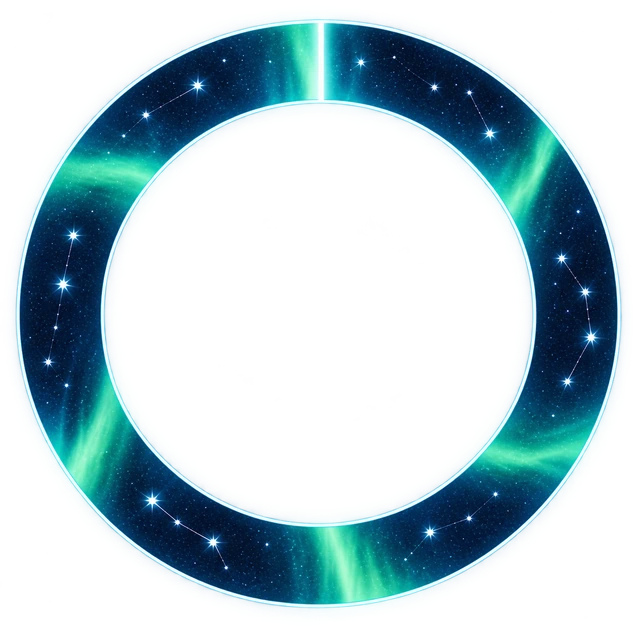
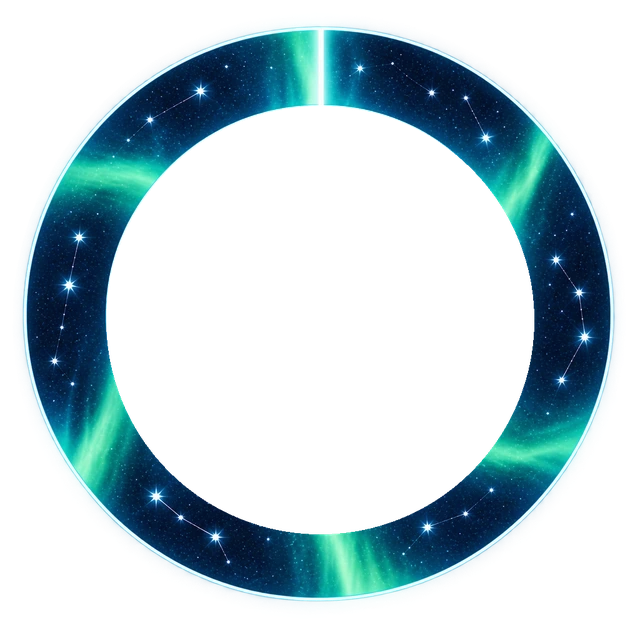
Add files via upload

Changed region(s): [[0.0, 0.0312, 0.9688, 0.9688], [0.7188, 0.7812, 0.75, 0.8125], [0.6562, 0.125, 0.6875, 0.1562]]

diff --git a/src/styles.css b/src/styles.css
@@ -5852,3 +5852,21 @@ body.admin-page,.admin-page .app-shell{height:auto;min-height:100%;overflow:visi
 .aurora-ring.active img{filter:saturate(1.02) contrast(1.05) brightness(1.00);}
 .aurora-ring.locked{opacity:.96;}
 .aurora-ring.locked img{filter:saturate(1.00) contrast(1.04) brightness(.97) hue-rotate(1deg);}
+
+/* Pass 7.28.0 — Aurora Apex concentric ring geometry correction */
+.aurora-ring{
+  opacity:.78;
+  filter:drop-shadow(0 7px 9px rgba(0,2,8,.48));
+}
+.aurora-ring img{
+  opacity:.97;
+  filter:saturate(.86) contrast(1.08) brightness(.92);
+}
+.aurora-ring::before{display:none;}
+.aurora-ring-outer{width:96%;height:96%;}
+.aurora-ring-middle{width:59%;height:59%;}
+.aurora-ring-inner{width:35%;height:35%;}
+.aurora-ring.tracking{opacity:.62;filter:drop-shadow(0 6px 8px rgba(0,2,8,.44));}
+.aurora-ring.tracking img{filter:saturate(.72) contrast(1.08) brightness(.82);}
+.aurora-ring.active{opacity:1;filter:drop-shadow(0 8px 10px rgba(0,2,8,.52)) drop-shadow(0 0 6px rgba(104,227,233,.14));}
+.aurora-ring.active img{opacity:1;filter:saturate(.96) contrast(1.10) brightness(1.0);}

diff --git a/index.html b/index.html
@@ -7,7 +7,7 @@
   <meta name="apple-mobile-web-app-capable" content="yes" />
   <meta name="apple-mobile-web-app-status-bar-style" content="black-translucent" />
   <link rel="manifest" href="./manifest.webmanifest" />
-  <link rel="stylesheet" href="./src/styles.css?v=7.27.0" />
+  <link rel="stylesheet" href="./src/styles.css?v=7.28.0" />
   <title>Silverstone Mission Control</title>
 </head>
 <body>
@@ -40,6 +40,6 @@
       }
     })();
   </script>
-  <script src="./src/main.js?v=7.27.0" defer></script>
+  <script src="./src/main.js?v=7.28.0" defer></script>
 </body>
 </html>

diff --git a/PRODUCTION-AUDIT.md b/PRODUCTION-AUDIT.md
@@ -1,4 +1,4 @@
-# Pass 7.27.0 — Production Audit
+# Pass 7.28.0 — Production Audit
 
 ## Result
 
@@ -6,21 +6,21 @@
 
 ## Production footprint
 
-- `dist/`: **8.195 MiB**
+- `dist/`: **8.149 MiB**
 - Production files: **50**
-- Versus Pass 7.26.0: **+137,160 bytes** (**+133.9 KiB**) with **no file-count change**.
-- The footprint increase comes from the three replacement Aurora ring WebPs; no duplicate assets were added.
+- Versus Pass 7.27.0: **-47,840 bytes** (**-46.7 KiB**) with **no file-count change**.
+- The footprint reduction comes from the corrected Aurora ring WebPs replacing the previous larger set; no duplicate assets were added.
 - No WAV/source-master audio is deployed.
 - No test/temp files are deployed.
 - Runtime images remain WebP/SVG and fonts remain WOFF2.
 
 ## Aurora Apex verified
 
-- Replaced `aurora-ring-outer.webp`, `aurora-ring-middle.webp` and `aurora-ring-inner.webp` with the newly rebuilt concentric transparent ring artworks.
-- The calmer deep-blue / light-green aurora direction is preserved while removing the visibly misaligned earlier artwork used in the previous pass.
-- Aurora Apex ring stack geometry, spacing, scaling, active-state emphasis, gameplay timings, background behaviour and mistimed desync feedback remain unchanged.
-- No mission copy, HUD structure, audio, routing or interaction logic was changed.
-- `src/main.js` was regenerated via `node bundle-js.cjs` and remained functionally unchanged.
+- Rebuilt `aurora-ring-outer.webp`, `aurora-ring-middle.webp` and `aurora-ring-inner.webp` from the approved calm Aurora artwork using clean centred annular masks with transparent inner/outer areas.
+- Corrected the Aurora ring stack so the Outer ring fills the full circular field while preserving clear dark gaps between Outer/Middle and Middle/Inner.
+- Removed the residual procedural ring overlay and eased tracking suppression so all three rings remain legible from the opening frame.
+- Aurora Apex gameplay, timing, copy, HUD structure, audio, routing and mistimed desync behaviour remain unchanged.
+- `src/main.js` was regenerated via `node bundle-js.cjs` and remained byte-identical in output behaviour, so it is not included in the updated-files ZIP.
 
 ## Automated checks passed
 
@@ -41,7 +41,7 @@
 
 ## Non-blocking warnings
 
-1. **Deployment footprint:** 8.19 MB exceeds the 7 MB audit target, primarily because the full Lapland Launch music track remains intentionally retained.
+1. **Deployment footprint:** 8.15 MB exceeds the 7 MB audit target, primarily because the full Lapland Launch music track remains intentionally retained.
 2. **ELF FM stream:** current Radio Mast URL is still identified as a test stream and should be replaced when the production stream is supplied.
 3. **Web app manifest:** no install icon is defined; normal browser/QR use is unaffected.
 

diff --git a/CHANGELOG.md b/CHANGELOG.md
@@ -711,3 +711,11 @@ This pass adds a self-contained static build for Vercel. No Vercel project-setti
 - The new production assets preserve the calmer deep-blue / light-green aurora treatment while removing the visibly misaligned, non-centred source-art behaviour seen previously.
 - No mission copy, HUD structure, audio, routing or interaction logic was changed.
 - Bumped runtime asset version to 7.27.0.
+
+## Pass 7.28.0 — Aurora Apex concentric ring fix
+
+- Rebuilt `aurora-ring-outer.webp`, `aurora-ring-middle.webp` and `aurora-ring-inner.webp` again from the approved calm Aurora art using clean centred annular masks, so each asset is now genuinely concentric with transparent inner/outer areas.
+- Corrected Aurora Apex ring stack geometry so the Outer ring fills the full circular field while preserving clear dark gaps between Outer/Middle and Middle/Inner.
+- Removed the residual procedural overlay from the ring layer and eased startup suppression so all three rings remain legible from the opening frame.
+- Kept Aurora Apex gameplay, copy, HUD structure, audio, routing and mistimed desync behaviour unchanged.
+- Bumped runtime asset version to 7.28.0.
